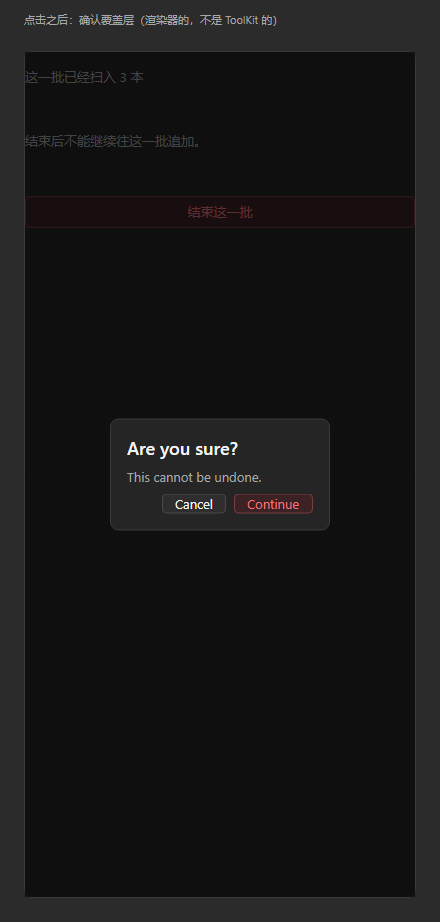
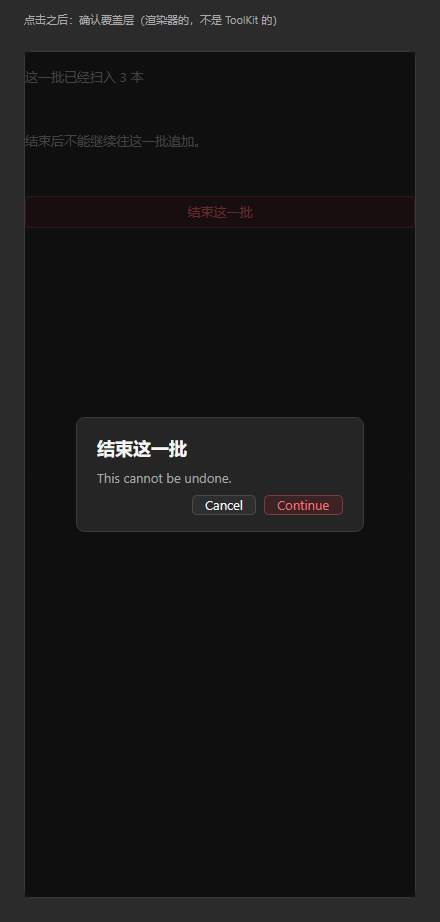
🎇 Style(toolkit-view): the confirmation dialog takes the size the design asks for
The overlay was 252x97 with 16px on every side and a 220px floor. The reference
frame is 288 wide with 20/18/20/16, so the box had a different shape in both
directions: narrower than the reference, and taller below the text than above it.

Measured, not inferred — a throwaway probe rendered one danger button, clicked
it, and read the Border out of the visual tree:

  before  Bounds=69,374 252x97   Padding=16,16,16,16  MinWidth=220  Width=NaN
  after   Bounds=51,373 288x99   Padding=20,18,20,16  MinWidth=0    Width=288

The title's own width goes 220 -> 248, which is exactly 288 - (20 + 20): the
box is now wider than the paragraph by the padding alone, instead of the
paragraph being stretched to a floor. The x offset moved 69 -> 51 because the
box is centred: (390 - 288) / 2.

`MinWidth` is gone rather than kept beside `Width`. With a fixed width a floor
can never be reached, and a setter that cannot fire is the shape this renderer
has been bitten by before (eleven dead tokens left the dictionary in 8e6ea8f).

Two of the ten reference images moved and eight did not: 03-confirm-light and
03-confirm-dark, the only scenario that opens the dialog. The other eight are
byte-identical to what was committed, which is the evidence that this touched
the dialog and nothing else.

Where the numbers did not come from: the brief said `_demo/Program.cs` carried
`Padding(20,18,20,16)` and `Width = 288`. It does not. That file has no 288, no
[…]

Changed region(s): [[0.2068, 0.4555, 0.8273, 0.577]]

diff --git a/KitX Clients/KitX Workflow/KitX.ToolKit.View.Avalonia/SurfaceCard.cs b/KitX Clients/KitX Workflow/KitX.ToolKit.View.Avalonia/SurfaceCard.cs
@@ -919,8 +919,8 @@ public sealed class SurfaceCard : Grid
             Child = new StackPanel { Spacing = SurfaceMetrics.FieldGap, Children = { title, body, buttons } },
             VerticalAlignment = global::Avalonia.Layout.VerticalAlignment.Center,
             HorizontalAlignment = global::Avalonia.Layout.HorizontalAlignment.Center,
-            Padding = new Thickness(16),
-            MinWidth = 220,
+            Padding = new Thickness(20, 18, 20, 16),
+            Width = 288,
         };
         dialog.Classes.Add(ThemedDialog);
 
